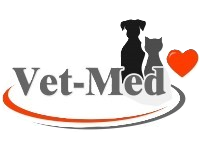
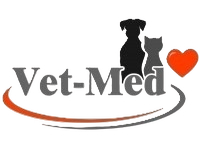
poprawa widoku banera (v=15)

diff --git a/src/app/layout.tsx b/src/app/layout.tsx
@@ -44,7 +44,7 @@ export const metadata: Metadata = {
     siteName: "VETMED",
     images: [
       {
-        url: 'https://gabryssad9-del.github.io/editorial-vet/emotional-vet/og-image.png?v=14',
+        url: 'https://gabryssad9-del.github.io/editorial-vet/emotional-vet/og-image.png?v=15',
         width: 1200,
         height: 630,
         alt: "VETMED Olsztyn - Profesjonalna Opieka Weterynaryjna",
@@ -68,7 +68,7 @@ export const metadata: Metadata = {
     title: "VETMED | Profesjonalna Opieka Weterynaryjna",
     description: "Najwyższej jakości opieka weterynaryjna w Olsztynie.",
     card: "summary_large_image",
-    images: ['https://gabryssad9-del.github.io/editorial-vet/emotional-vet/og-image.png?v=14'],
+    images: ['https://gabryssad9-del.github.io/editorial-vet/emotional-vet/og-image.png?v=15'],
   },
   alternates: {
     canonical: 'https://gabryssad9-del.github.io/editorial-vet',